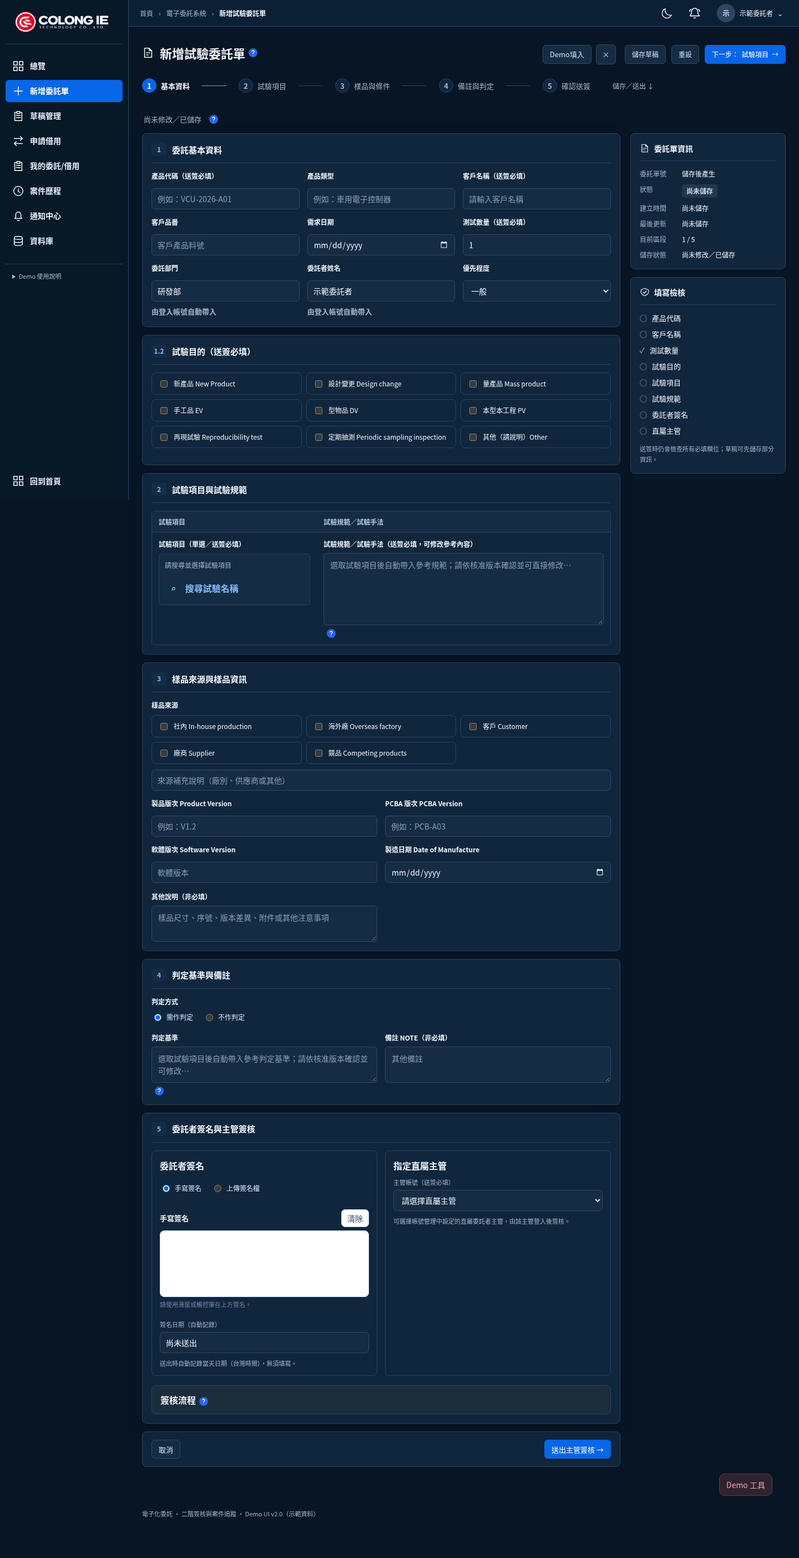
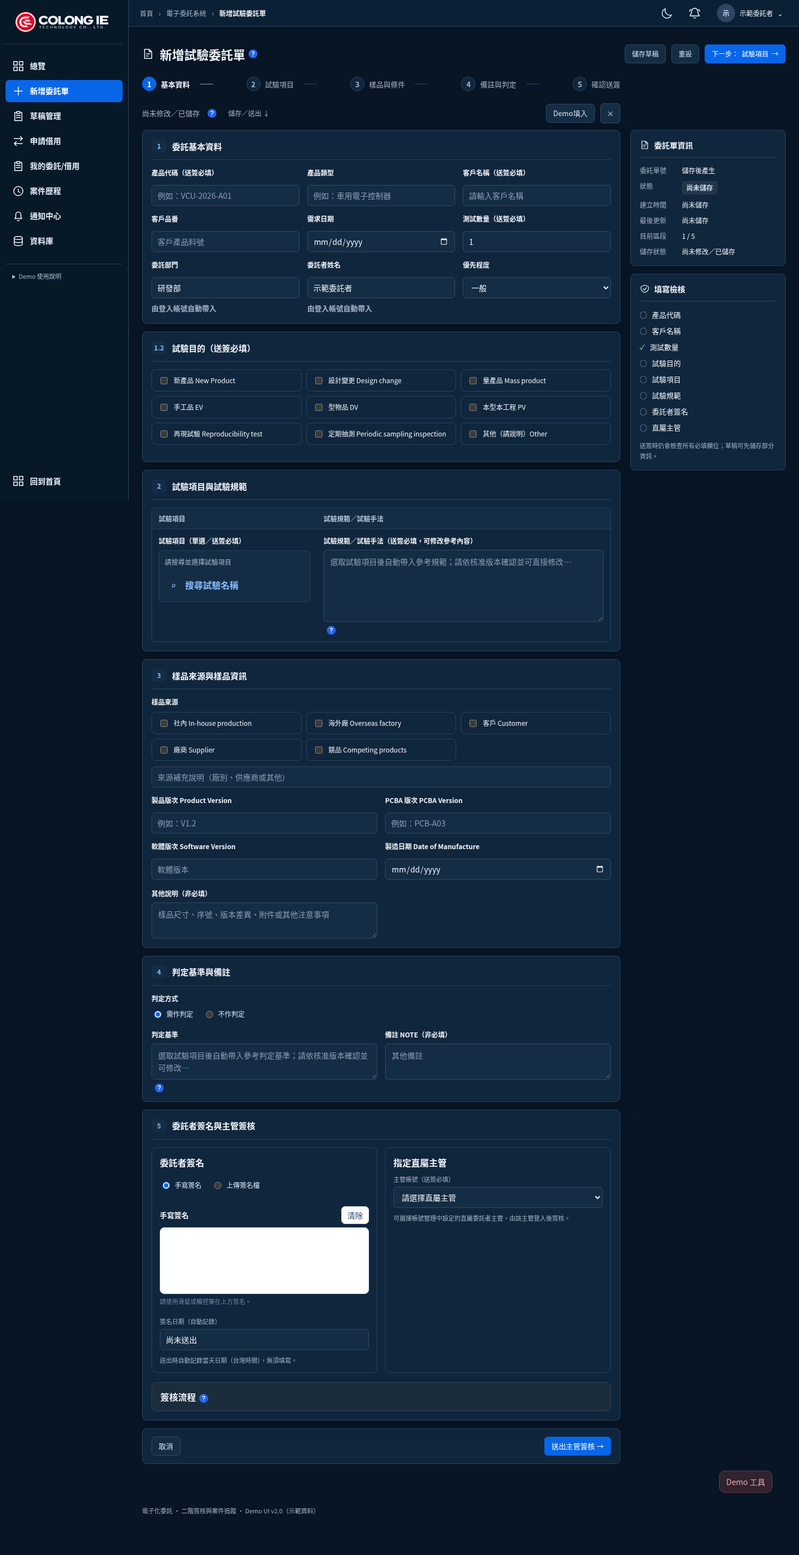
Shorten step connectors and align editor controls with the form column

diff --git a/src/RequestApp.jsx b/src/RequestApp.jsx
@@ -385,7 +385,7 @@ export default function RequestApp() {
   {borrowOpen&&<RequestFormDialog label="申請借用" dark={dark} onClose={()=>setBorrowOpen(false)}><header className="rq-form-header"><div><p className="rq-eyebrow">EQUIPMENT BORROWING REQUEST</p><div className="help-title-row"><h2>申請借用</h2><HelpTip>填寫設備借用需求與預計歸還日期，送出後會建立借用申請紀錄。</HelpTip></div></div><button type="button" className="rq-close" aria-label="關閉借用申請" onClick={()=>setBorrowOpen(false)}>×</button></header><div className="rq-form-body rq-form-body-reference"><section className="rq-entry-card"><div className="rq-entry-card-title"><span className="rq-entry-number">1</span><div><b>申請人資料</b><small>Applicant Information</small></div></div><div className="rq-entry-grid"><label>申請人姓名 <em>*</em><input className="rq-input" value={borrowForm.requester} onChange={e=>setBorrowForm({...borrowForm,requester:e.target.value})} placeholder="請輸入申請人姓名"/></label><label>申請部門 <em>*</em><input className="rq-input" value={borrowForm.department} onChange={e=>setBorrowForm({...borrowForm,department:e.target.value})} placeholder="例如：RD、PM、DQA"/></label></div></section><section className="rq-entry-card"><div className="rq-entry-card-title"><span className="rq-entry-number">2</span><div><b>借用設備與用途</b><small>Equipment & Purpose</small></div></div><div className="rq-entry-grid"><label>設備名稱 <em>*</em><select className="rq-input" value={borrowForm.equipmentId||''} onChange={e=>setBorrowForm({...borrowForm,equipmentId:e.target.value,equipment:borrowSnapshot.equipment.find(m=>m.id===e.target.value)?.name||''})}><option value="">請選擇設備</option>{borrowSnapshot.equipment.map(m=><option key={m.id} value={m.id} disabled={m.status!=='待機中'||Boolean(m.activeBorrowId)}>{m.id} · {m.name} · {m.status}</option>)}</select><HelpTip>設備同步自 LMS 台帳；僅待機設備可申請，核准時會再次檢查狀態及排程。</HelpTip>{selectedBorrowEquipment&&<p>型號：{selectedBorrowEquipment.model||'—'} · 序號：{selectedBorrowEquipment.serial||'—'} · 位置：{selectedBorrowEquipment.location||'—'} · 目前狀態：{selectedBorrowEquipment.status}</p>}</label><label>借用數量（每筆一台實體設備） <em>*</em><input className="rq-input" type="number" min="1" max="1" readOnly value="1"/></label><label className="rq-entry-grid-one">借用用途 <em>*</em><textarea className="rq-input rq-textarea" value={borrowForm.purpose} onChange={e=>setBorrowForm({...borrowForm,purpose:e.target.value})} placeholder="請說明借用原因、用途或對應試驗案件"/></label></div></section><section className="rq-entry-card"><div className="rq-entry-card-title"><span className="rq-entry-number">3</span><div><b>借用期間與備註</b><small>Borrowing Period & Notes</small></div></div><div className="rq-entry-grid"><label>預計借用日期 <em>*</em><input className="rq-input" type="date" value={borrowForm.borrowDate} onChange={e=>setBorrowForm({...borrowForm,borrowDate:e.target.value})}/></label><label>預計歸還日期 <em>*</em><input className="rq-input" type="date" min={borrowForm.borrowDate || undefined} value={borrowForm.returnDate} onChange={e=>setBorrowForm({...borrowForm,returnDate:e.target.value})}/></label><label className="rq-entry-grid-one">備註<textarea className="rq-input rq-textarea" value={borrowForm.notes} onChange={e=>setBorrowForm({...borrowForm,notes:e.target.value})} placeholder="配件、治具、設備狀況或其他注意事項（選填）"/></label></div></section><div className="rq-process-note"><b>申請流程</b><HelpTip>填寫借用申請 → LMS 待核准 → 一階主管核准／退回。</HelpTip></div></div><footer className="rq-form-footer"><button type="button" className="rq-btn rq-btn-light" onClick={()=>setBorrowForm({ requester: '', department: '', equipment: '', equipmentId:'', purpose: '', borrowDate: '', returnDate: '', quantity: '1', notes: '' })}>清除表單</button><button type="button" className="rq-btn rq-btn-primary" onClick={()=>{ if(!borrowForm.requester.trim()||!borrowForm.department.trim()||!borrowForm.equipment||!borrowForm.purpose.trim()||!borrowForm.borrowDate||!borrowForm.returnDate||Number(borrowForm.quantity)<1){notify('請完成所有必填欄位，並確認借用與歸還日期。');return;} if(borrowForm.returnDate<borrowForm.borrowDate){notify('歸還日期不可早於借用日期。');return;} let id;try{const created=submitBorrowRequest(borrowForm,signedAccount?.id);id=created.id;refreshLabSnapshot();}catch(error){notify(error.message);return;} setBorrowForm({ requester: '', department: '', equipment: '', equipmentId:'', purpose: '', borrowDate: '', returnDate: '', quantity: '1', notes: '' }); setBorrowOpen(false);setPage('requests');setMyTab('borrows');setSearch('');notify(`借用申請 ${id} 已建立`); }}>送出借用申請 →</button></footer></RequestFormDialog>}
   {page==='detail'&&!selected&&<div role="alert" className="rq-panel rq-empty">案件不存在或你沒有存取權限。</div>}
   {page === 'detail' && selected && <section className="rq-panel"><div className="rq-panel-head"><div><div className="help-title-row"><h2>{selected.id}　<span className={`rq-status ${requestStatusClass(selected.status)}`}>{selected.status === '待主管簽核' ? '待簽核' : selected.status === '已核准' ? '待審查' : selected.status}</span></h2><HelpTip>委託內容、試驗需求及簽核紀錄</HelpTip></div></div><button className="rq-btn rq-btn-light" onClick={()=>setPage(canOpenReview?'review':'requests')}>← 返回清單</button></div>{selected.status==='已完成'&&<p className="rq-stage-note">試驗已完成；報告仍待處理，不代表已審核、已查閱或已結案。</p>}<ReportCasePanel request={selected} account={signedAccount}/>{selected.execution&&<section className="rq-detail-section"><h3>試驗執行資訊</h3><div className="rq-detail-grid">{[['設備',selected.execution.equipment],['執行人',selected.execution.operator],['樣品編號',selected.execution.sampleCode],['開始時間',displayTaipei(selected.execution.startedAt)],['完成時間',displayTaipei(selected.execution.completedAt)]].map(([label,value])=><div key={label}><label>{label}</label><p>{value||'—'}</p></div>)}</div></section>}<div className="rq-detail-grid">{[['建立時間',displayTaipei(selected.createdAt)],['最後更新（台灣時間）',displayTaipei(selected.updatedAt)],['產品代碼',selected.productCode||selected.product],['產品類型',selected.productType],['客戶名稱',selected.customer||selected.project],['客戶品番',selected.customerPartNo],['需求日期',displayTaipei(selected.dueDate,{dateOnly:true})],['測試數量',selected.quantity],['委託者',selected.requester],['委託部門',selected.department],['試驗目的',(selected.purpose||[]).join('、')+(selected.purposeOther?`：${selected.purposeOther}`:'')],['樣品來源',(selected.sampleSource||[]).join('、')+(selected.sampleSourceOther?`：${selected.sampleSourceOther}`:'')],['製品版次',selected.productVersion],['PCBA版次',selected.pcbaVersion],['軟體版次',selected.softwareVersion],['製造日期',displayTaipei(selected.manufactureDate,{dateOnly:true})],['試驗項目',(selected.testItems||[]).join('、')],['試驗規範／試驗手法',selected.specification],['判定方式',selected.judgementRequired],['判定說明',selected.judgementCriteria],['其他說明',selected.sampleDescription],['備註',selected.notes]].map(([k,v])=><div key={k}><label>{k}</label><p>{v||'—'}</p></div>)}</div>{canOpenReview && selected.status==='待主管簽核'&&canApproveRequestManager(signedAccount,selected) && <div className="rq-approval"><h3>主管簽核（二階流程：第一階段）</h3><p className="rq-muted">核准時需簽名；退件只需填寫原因，可不簽名。</p><ApprovalSignature accountId={signedAccount?.id} key={`${selected.id}-${approvalInputVersion}`} mode={approvalMode} onModeChange={setApprovalMode} value={approvalSignature} onChange={setApprovalSignature} onError={notify} /><label className="rq-label">簽核意見（退件時請填寫原因）</label><textarea className="rq-input rq-textarea" value={approvalNote} onChange={e=>setApprovalNote(e.target.value)} placeholder="請輸入核准說明或退件補正事項…"/><div className="rq-actions"><button className="rq-btn rq-btn-danger" onClick={()=>review(selected.id,'退件')}>退回補正</button><button className="rq-btn rq-btn-primary" onClick={()=>review(selected.id,'已核准')}>✓ 核准委託單</button></div></div>}{signedAccount.role==='委託者' && ['退件','補件中'].includes(selected.status) && <div className="rq-review-callout"><div><b>主管意見</b><p>{selected.approvalNote || '請補充委託資訊。'}</p></div><button className="rq-btn rq-btn-primary" onClick={()=>beginEdit(selected)}>編輯並重新送出</button></div>}<RequestSignatures request={requests.find(r => r.id === selected.id) || selected} /><LmsReviewSignatures request={requests.find(r => r.id === selected.id) || selected} /><SignatureHistory request={requests.find(r=>r.id===selected.id)||selected}/><RequestProgress status={(requests.find(r => r.id === selected.id) || selected).status} /></section>}
-  {formOpen && page==='new' && signedAccount.role==='委託者' && <RequestEditorPage onSaveDraft={()=>submitRequest(true)} onReset={resetEditor} form={form} signature={requestSignature} source={requests.find(row=>row.id===editingDraftId)} dirty={dirty} errors={formErrors} onClose={()=>go('/request/requests')}><header className="rq-form-header"><div><p className="rq-eyebrow">ELECTRONIC TEST REQUEST</p><div className="help-title-row"><h2>{editingDraftId ? '編輯委託單草稿' : '新增試驗委託單'}</h2><HelpTip>可先儲存部分資訊，之後再從「我的委託/借用」繼續編輯並送出簽核。</HelpTip></div></div><div style={{display:"flex",alignItems:"center",gap:8}}><button type="button" className="rq-btn rq-btn-small" onClick={fillSampleRequest}>Demo填入</button><button type="button" className="rq-close" onClick={()=>go('/request/requests')} aria-label="關閉">×</button></div></header><div className="rq-form-body rq-form-body-reference"><section className="rq-entry-card"><div className="rq-entry-card-title"><span className="rq-entry-number">1</span><div><b>委託基本資料</b><small>Request Information</small></div></div><div className="rq-entry-grid">
+  {formOpen && page==='new' && signedAccount.role==='委託者' && <RequestEditorPage auxiliaryActions={<div className="rq-editor-aux-actions"><button type="button" className="rq-btn rq-btn-small" onClick={fillSampleRequest}>Demo填入</button><button type="button" className="rq-close" onClick={()=>go('/request/requests')} aria-label="關閉">×</button></div>} onSaveDraft={()=>submitRequest(true)} onReset={resetEditor} form={form} signature={requestSignature} source={requests.find(row=>row.id===editingDraftId)} dirty={dirty} errors={formErrors} onClose={()=>go('/request/requests')}><header className="rq-form-header"><div><p className="rq-eyebrow">ELECTRONIC TEST REQUEST</p><div className="help-title-row"><h2>{editingDraftId ? '編輯委託單草稿' : '新增試驗委託單'}</h2><HelpTip>可先儲存部分資訊，之後再從「我的委託/借用」繼續編輯並送出簽核。</HelpTip></div></div></header><div className="rq-form-body rq-form-body-reference"><section className="rq-entry-card"><div className="rq-entry-card-title"><span className="rq-entry-number">1</span><div><b>委託基本資料</b><small>Request Information</small></div></div><div className="rq-entry-grid">
 <label>產品代碼（送簽必填）<input className="rq-input" data-field="productCode" aria-invalid={Boolean(formErrors.productCode)} value={form.productCode} onChange={e=>setForm({...form,productCode:e.target.value,product:form.product||e.target.value})} placeholder="例如：VCU-2026-A01"/></label>
 <label>產品類型<input className="rq-input" value={form.productType} onChange={e=>setForm({...form,productType:e.target.value})} placeholder="例如：車用電子控制器"/></label>
 <label>客戶名稱（送簽必填）<input className="rq-input" data-field="customer" aria-invalid={Boolean(formErrors.customer)} value={form.customer} onChange={e=>setForm({...form,customer:e.target.value,project:form.project||e.target.value})} placeholder="請輸入客戶名稱"/></label>

diff --git a/src/RequestEditorPage.jsx b/src/RequestEditorPage.jsx
@@ -6,12 +6,12 @@ import {RequestEditorSidebar} from './RequestEnterpriseUi.jsx';
 const sections=['基本資料','試驗項目','樣品與條件','備註與判定','確認送簽'];
 const sectionStarts=[0,2,3,4,5];
 const stageForCard=index=>Math.max(0,sectionStarts.findLastIndex(start=>index>=start));
-export default function RequestEditorPage({children,dirty,errors,onClose,form,signature,source,onSaveDraft,onReset}){
+export default function RequestEditorPage({children,dirty,errors,onClose,form,signature,source,onSaveDraft,onReset,auxiliaryActions}){
  const {language}=useUiPreferences();
  const root=useRef(null),[active,setActive]=useState(0);
  useEffect(()=>{const footer=root.current.querySelector('.rq-form-footer');if(footer){footer.id='request-editor-actions';footer.tabIndex=-1;}const cards=[...root.current.querySelectorAll('.rq-form-body>.rq-entry-card')];cards.forEach((el,i)=>{el.id=`request-section-${i}`;el.tabIndex=-1;});const observer=new IntersectionObserver(entries=>{const first=entries.filter(e=>e.isIntersecting).sort((a,b)=>a.boundingClientRect.top-b.boundingClientRect.top)[0];if(first)setActive(stageForCard(cards.indexOf(first.target)));},{rootMargin:'-10% 0px -55% 0px'});cards.forEach(el=>observer.observe(el));const esc=e=>{if(e.key==='Escape'&&!document.querySelector('[role=dialog],[role=alertdialog]')){e.preventDefault();onClose();}};document.addEventListener('keydown',esc);return()=>{observer.disconnect();document.removeEventListener('keydown',esc);};},[onClose]);
  useEffect(()=>{const nodes=[];for(const [key,message]of Object.entries(errors)){const field=root.current.querySelector(`[data-field="${key}"]`);if(!field)continue;const note=document.createElement('small');note.className='rq-field-error';note.id=`rq-error-${key}`;note.textContent=translateText(message);field.setAttribute('aria-describedby',note.id);field.insertAdjacentElement('afterend',note);nodes.push({note,field});}return()=>nodes.forEach(({note,field})=>{note.remove();if(field.getAttribute('aria-describedby')===note.id)field.removeAttribute('aria-describedby');});},[errors,language]);
  const [header,body,footer]=Children.toArray(children);
  const goToSection=index=>{setActive(index);const target=document.getElementById(`request-section-${sectionStarts[index]}`);target?.scrollIntoView({block:'start'});target?.focus({preventScroll:true});};
- return <section className="rq-editor-page" ref={root} aria-label="委託單編輯頁"><div className="rq-editor-topline">{header}<div className="rq-editor-top-actions"><button type="button" className="rq-btn rq-btn-light" onClick={onSaveDraft}>儲存草稿</button><button type="button" className="rq-btn rq-btn-light" onClick={onReset}>重設</button><button type="button" className="rq-btn rq-btn-primary" onClick={()=>active<4?goToSection(active+1):document.getElementById('request-editor-actions')?.scrollIntoView({block:'center'})}>{active<4?<><span>下一步：</span><span>{sections[active+1]}</span></>:'前往送簽'} →</button></div></div><nav className="rq-section-nav" aria-label="表單區段">{sections.map((label,i)=><a key={label} href={`#request-section-${sectionStarts[i]}`} aria-current={active===i?'step':undefined} onClick={e=>{e.preventDefault();setActive(i);document.getElementById(`request-section-${sectionStarts[i]}`)?.scrollIntoView({block:'start'});document.getElementById(`request-section-${sectionStarts[i]}`)?.focus({preventScroll:true});}} aria-label={`${i+1}. ${label}`}><span className="rq-step-number" aria-hidden="true">{i+1}</span><span>{label}</span></a>)}<a className="rq-section-action" href="#request-editor-actions" onClick={e=>{e.preventDefault();document.getElementById('request-editor-actions')?.scrollIntoView({block:'center'});document.getElementById('request-editor-actions')?.focus({preventScroll:true});}}>儲存／送出 ↓</a></nav><div className="rq-editor-hint">{dirty?'尚有未儲存變更':'尚未修改／已儲存'}<HelpTip>標示「必填」的欄位於送簽時檢查；草稿可不完整。日期格式：YYYY-MM-DD；自動帶入欄位為唯讀。</HelpTip></div>{Object.keys(errors).length>0&&<div className="rq-error-summary" role="alert"><strong>請檢查以下欄位</strong><ul>{Object.entries(errors).map(([key,message])=><li key={key}><button onClick={()=>root.current.querySelector(`[data-field="${key}"]`)?.focus()}>{message}</button></li>)}</ul></div>}<div className="rq-editor-columns"><div className="rq-editor-content">{body}{footer}</div><RequestEditorSidebar form={form} signature={signature} source={source} dirty={dirty} active={active}/></div></section>;
+ return <section className="rq-editor-page" ref={root} aria-label="委託單編輯頁"><div className="rq-editor-topline">{header}<div className="rq-editor-top-actions"><button type="button" className="rq-btn rq-btn-light" onClick={onSaveDraft}>儲存草稿</button><button type="button" className="rq-btn rq-btn-light" onClick={onReset}>重設</button><button type="button" className="rq-btn rq-btn-primary" onClick={()=>active<4?goToSection(active+1):document.getElementById('request-editor-actions')?.scrollIntoView({block:'center'})}>{active<4?<><span>下一步：</span><span>{sections[active+1]}</span></>:'前往送簽'} →</button></div></div><nav className="rq-section-nav" aria-label="表單區段">{sections.map((label,i)=><a key={label} href={`#request-section-${sectionStarts[i]}`} aria-current={active===i?'step':undefined} onClick={e=>{e.preventDefault();setActive(i);document.getElementById(`request-section-${sectionStarts[i]}`)?.scrollIntoView({block:'start'});document.getElementById(`request-section-${sectionStarts[i]}`)?.focus({preventScroll:true});}} aria-label={`${i+1}. ${label}`}><span className="rq-step-number" aria-hidden="true">{i+1}</span><span>{label}</span></a>)}</nav><div className="rq-editor-pretable-row"><div className="rq-editor-hint">{dirty?'尚有未儲存變更':'尚未修改／已儲存'}<HelpTip>標示「必填」的欄位於送簽時檢查；草稿可不完整。日期格式：YYYY-MM-DD；自動帶入欄位為唯讀。</HelpTip><a className="rq-section-action" href="#request-editor-actions" onClick={e=>{e.preventDefault();document.getElementById('request-editor-actions')?.scrollIntoView({block:'center'});document.getElementById('request-editor-actions')?.focus({preventScroll:true});}}>儲存／送出 ↓</a></div>{auxiliaryActions}</div>{Object.keys(errors).length>0&&<div className="rq-error-summary" role="alert"><strong>請檢查以下欄位</strong><ul>{Object.entries(errors).map(([key,message])=><li key={key}><button onClick={()=>root.current.querySelector(`[data-field="${key}"]`)?.focus()}>{message}</button></li>)}</ul></div>}<div className="rq-editor-columns"><div className="rq-editor-content">{body}{footer}</div><RequestEditorSidebar form={form} signature={signature} source={source} dirty={dirty} active={active}/></div></section>;
 }

diff --git a/e2e/workspace-page-header.spec.js b/e2e/workspace-page-header.spec.js
@@ -6,5 +6,5 @@ for(const theme of ['light','dark'])for(const [system,header] of [['lms','.dashb
 });
 for(const theme of ['light','dark'])for(const width of [1440,390])test(`request editor ${theme} ${width} stepper keeps fields and reset protects changes`,async({page})=>{
  await page.setViewportSize({width,height:900});await seed(page,theme);await page.goto('/request/new');await expect(page.getByRole('heading',{name:'新增試驗委託單',exact:true})).toBeVisible();const steps=page.getByRole('navigation',{name:'表單區段'});await expect(steps.locator('.rq-step-number')).toHaveCount(5);await expect(steps.locator('[aria-current=step]')).toHaveCSS('background-color','rgba(0, 0, 0, 0)');await expect(page.getByRole('button',{name:'儲存草稿',exact:true})).toHaveCount(1);await page.screenshot({path:test.info().outputPath(`editor-${theme}-${width}.png`),fullPage:true});
- const product=page.getByPlaceholder('例如：VCU-2026-A01');await product.fill('KEEP-WHILE-NAVIGATING');await page.getByRole('button',{name:/下一步：/}).click();await expect(product).toHaveValue('KEEP-WHILE-NAVIGATING');await steps.getByRole('link',{name:'5. 確認送簽',exact:true}).click();await expect(page.locator('#request-section-5')).toBeFocused();page.once('dialog',d=>d.dismiss());await page.getByRole('button',{name:'重設',exact:true}).click();await expect(product).toHaveValue('KEEP-WHILE-NAVIGATING');page.once('dialog',d=>d.accept());await page.getByRole('button',{name:'重設',exact:true}).click();await expect(product).toHaveValue('');expect(await page.evaluate(()=>document.documentElement.scrollWidth<=innerWidth)).toBe(true);expect(await page.pageErrors()).toEqual([]);
+ const cardBox=await page.locator('.rq-form-body>.rq-entry-card').first().boundingBox(),stepBox=await steps.boundingBox(),auxBox=await page.locator('.rq-editor-aux-actions').boundingBox();expect(stepBox.x).toBeCloseTo(cardBox.x,1);expect(stepBox.x+stepBox.width).toBeCloseTo(cardBox.x+cardBox.width,1);expect(auxBox.x+auxBox.width).toBeCloseTo(cardBox.x+cardBox.width,1);expect(auxBox.y).toBeLessThan(cardBox.y);if(width>720){const boxes=await Promise.all((await page.locator('.rq-editor-top-actions>button').all()).map(button=>button.boundingBox()));expect(boxes[1].x-boxes[0].x-boxes[0].width).toBeCloseTo(boxes[2].x-boxes[1].x-boxes[1].width,1);}const product=page.getByPlaceholder('例如：VCU-2026-A01');await product.fill('KEEP-WHILE-NAVIGATING');await page.getByRole('button',{name:/下一步：/}).click();await expect(product).toHaveValue('KEEP-WHILE-NAVIGATING');await steps.getByRole('link',{name:'5. 確認送簽',exact:true}).click();await expect(page.locator('#request-section-5')).toBeFocused();page.once('dialog',d=>d.dismiss());await page.getByRole('button',{name:'重設',exact:true}).click();await expect(product).toHaveValue('KEEP-WHILE-NAVIGATING');page.once('dialog',d=>d.accept());await page.getByRole('button',{name:'重設',exact:true}).click();await expect(product).toHaveValue('');expect(await page.evaluate(()=>document.documentElement.scrollWidth<=innerWidth)).toBe(true);expect(await page.pageErrors()).toEqual([]);
 });

diff --git a/src/WorkspacePageHeader.css b/src/WorkspacePageHeader.css
@@ -27,3 +27,17 @@
 @media(max-width:720px){#root .rq-enterprise .rq-editor-topline{gap:12px}#root .rq-enterprise .rq-editor-top-actions{width:100%;gap:8px}#root .rq-enterprise .rq-section-nav a:not(.rq-section-action)::after{width:24px;margin:0 10px}}
 #root .rq-app.rq-enterprise .rq-section-nav a[aria-current=step]{background:transparent!important;color:var(--enterprise-text)!important;border:0;box-shadow:none}
 #root .rq-app.rq-enterprise .rq-section-nav a[aria-current=step]::after{background:#7ca4d8}
+/* Align section navigation and secondary actions with the form column. */
+#root .rq-enterprise .rq-editor-page{--editor-side-width:280px}
+#root .rq-enterprise .rq-section-nav,#root .rq-enterprise .rq-editor-pretable-row{width:calc(100% - var(--editor-side-width) - 18px)}
+#root .rq-enterprise .rq-section-nav{justify-content:space-between}
+#root .rq-enterprise .rq-section-nav a:not(.rq-section-action)::after{width:24px;margin:0 10px;flex:0 0 24px}
+#root .rq-enterprise .rq-editor-pretable-row{display:flex;align-items:center;justify-content:space-between;gap:12px;margin-bottom:12px}
+#root .rq-enterprise .rq-editor-pretable-row .rq-editor-hint{padding:0;flex-wrap:wrap}
+#root .rq-enterprise .rq-editor-hint .rq-section-action{font-size:12px;color:var(--enterprise-secondary);text-decoration:none;margin-left:8px}
+#root .rq-enterprise .rq-editor-aux-actions{display:flex;align-items:center;gap:10px;flex-shrink:0}
+#root .rq-enterprise .rq-editor-top-actions{gap:10px}
+#root .rq-enterprise :is(.rq-editor-top-actions,.rq-editor-aux-actions)>button{margin:0!important}
+@media(min-width:1600px){#root .rq-enterprise .rq-editor-page{--editor-side-width:300px}}
+@media(max-width:1250px){#root .rq-enterprise .rq-editor-page{--editor-side-width:240px}}
+@media(max-width:720px){#root .rq-enterprise .rq-section-nav,#root .rq-enterprise .rq-editor-pretable-row{width:100%}#root .rq-enterprise .rq-editor-pretable-row .rq-editor-hint{font-size:11px}#root .rq-enterprise .rq-editor-hint .rq-section-action{margin-left:0}}

diff --git a/docs/workspace-page-header.md b/docs/workspace-page-header.md
@@ -47,3 +47,11 @@
 範圍包含頁首導引、桌面與手機、深淺色、步驟點選與下一步、欄位保留、重設確認、草稿儲存、未儲存離開保護、主管權限、簽名、語言字體及每頁筆數偏好、Chrome 200% 縮放。
 
 本次未變更帳號、業務資料、後端介面或九階案件流程。預覽供使用者驗收，不合併 main。
+
+## 步驟連線與按鈕對齊微調
+
+依最新標註圖，桌面步驟連線由 44px 縮短為 24px，步驟列與左側表單卡片的左右邊緣對齊。Demo 填入與離開按鈕移至步驟列下方、首張卡片上方，右緣切齊卡片；上方儲存草稿、重設、下一步的外部間距統一為 10px。原儲存／送出定位捷徑移到狀態列，功能保留。
+
+[淺色首屏](reviews/workspace-page-header/editor-top-light.png)／[深色首屏](reviews/workspace-page-header/editor-top-dark.png)。桌面與手機、深淺色對齊補測 4／4 通過，含按鈕實際邊界及間距量測；既有 Demo 填入、離開確認、草稿與送簽行為不變。
+
+本輪 lint、正式建置與 diff check 通過；表單、頁首與 Chrome 200% 縮放回歸 33／33 通過。
